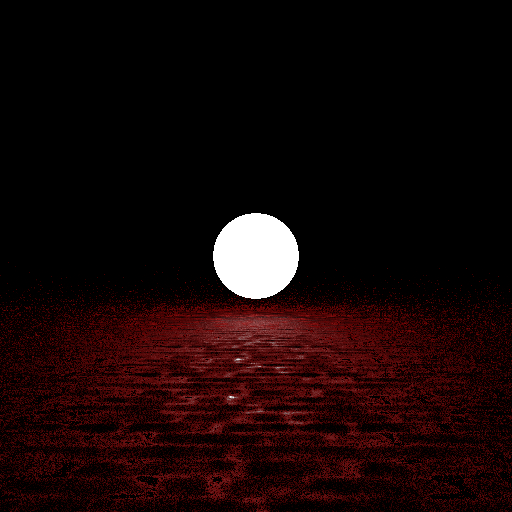
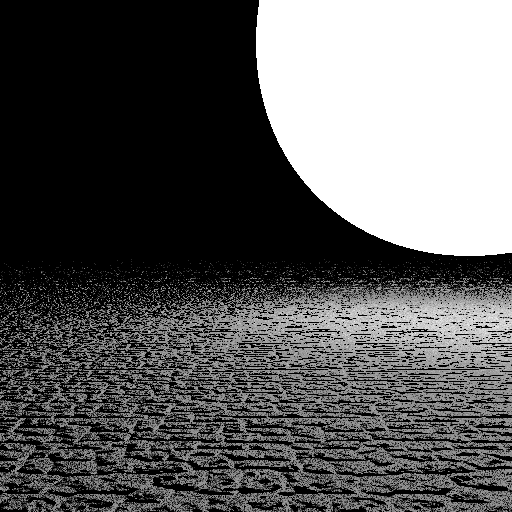
Allow each mesh to have its own default material, allow loading objs whose mtl is missing, and add support for normal maps

diff --git a/src/scenes.rs b/src/scenes.rs
@@ -13,14 +13,14 @@ pub fn construct_reflect_scene() -> ObjectVec {
     let mut objs: ObjectVec = Vec::new();
 
     objs.push(Box::new(Sphere::new(
-        Vec3 { x: 0.0, y: 0.0, z: -12.0 },
-        1.0,
+        Vec3 { x: 5.0, y: 5.0, z: -12.0 },
+        5.0,
         Material {
             texture_albedo: None,//Some(Texture::Solid(Color::gray(1.0))),
             texture_specular: None,//Some(Texture::Solid(Color::gray(1.0))),
             texture_normal: None,
             texture_emission_color: None,
-            texture_emission_intensity: Some(Texture::Solid(Color::gray(1.0)))
+            texture_emission_intensity: Some(Texture::Solid(Color::gray(10.0)))
         }
     )));
 
@@ -29,9 +29,9 @@ pub fn construct_reflect_scene() -> ObjectVec {
         Vec3 { x: 0.0, y: 1.0, z: 0.0 },
         Vec3 { x: 0.0, y: 0.0, z: -1.0 },
         Material {
-            texture_albedo: Some(Texture::Solid(Color(1.0,0.0,0.0))),
-            texture_specular: Some(Texture::from_image("/Users/brundolf/git/raytracer/specular.jpeg")),
-            texture_normal: None,
+            texture_albedo: Some(Texture::Solid(Color::gray(1.0))),
+            texture_specular: None,
+            texture_normal: Some(Texture::from_image("/Users/brundolf/git/raytracer/cobblestone_normal.jpg")),
             texture_emission_color: None,
             texture_emission_intensity: None,
         }
@@ -90,8 +90,9 @@ pub fn construct_tree_scene() -> ObjectVec {
 
     objs.push(Box::new(Mesh::from_obj(
         "/Users/brundolf/git/raytracer/tree.obj", 
-        &(&Matrix::translation(&Vec3 { x: 0.0, y: 0.0, z: -3.0 }) *
-          &Matrix::rotation_y(std::f32::consts::PI / -4.0))
+        &(Matrix::translation(&Vec3 { x: 0.0, y: 0.0, z: -3.0 })
+        * Matrix::rotation_y(std::f32::consts::PI / -4.0)),
+        None
     )));
 
     objs.push(Box::new(Plane::new(
@@ -140,9 +141,10 @@ pub fn construct_room_scene() -> ObjectVec {
 
     objs.push(Box::new(Mesh::from_obj(
         "/Users/brundolf/git/raytracer/test.obj", 
-        &(&Matrix::translation(&Vec3 { x: 0.0, y: -3.0, z: -10.0 }) *
-        &(&Matrix::rotation_y(std::f32::consts::PI) *
-          &Matrix::scale(&Vec3::from_scalar(0.5))))
+        &(Matrix::translation(&Vec3 { x: 0.0, y: -3.0, z: -10.0 })
+        * Matrix::rotation_y(std::f32::consts::PI)
+        * Matrix::scale(&Vec3::from_scalar(0.5))),
+        None
     )));
     
     // ceiling
@@ -429,10 +431,61 @@ pub fn construct_wallpaper_scene() -> ObjectVec {
     return objs;
 }
 
+
+
+pub fn construct_wallpaper_scene_2() -> ObjectVec {
+    let mut objs: ObjectVec = Vec::new();
+
+    objs.push(Box::new(Mesh::from_obj(
+        "/Users/brundolf/git/raytracer/Geometric.obj", 
+        &(Matrix::translation(&Vec3 { x: -0.5, y: 0.0, z: -8.0 })
+        * Matrix::rotation_x(std::f32::consts::PI * -1.0 / 8.0)
+        * Matrix::rotation_y(std::f32::consts::PI * -1.0 / 8.0)
+        /*
+          Matrix::rotation_y(std::f32::consts::PI * 5.0 / 4.0) *
+          Matrix::rotation_x(std::f32::consts::PI * 1.0 / 4.0)*/),
+        Some(Material {
+            texture_albedo: None,
+            texture_specular: Some(Texture::Solid(Color::gray(0.8))),
+            texture_normal: None,
+            texture_emission_color: None,
+            texture_emission_intensity: None,
+        })
+    )));
+
+    for a in 0..8 {
+        for b in 0..4 {
+            let a_portion = a as f32 / 8.0;
+            let b_portion = b as f32 / 4.0;
+
+            let longitude = (2.0 * std::f32::consts::PI) * a_portion + (std::f32::consts::PI / 8.0);
+            let latitude = std::f32::consts::PI * b_portion - std::f32::consts::PI / 2.0;
+
+            println!("{}, {}", longitude, latitude);
+
+            let pos = &Vec3::from_angles(longitude, latitude) * 3.0;
+
+            objs.push(Box::new(Sphere::new(
+                &Vec3 { x: 0.0, y: 0.0, z: -8.0 } + &pos,
+                0.5,
+                Material {
+                    texture_albedo: None,
+                    texture_specular: None,
+                    texture_normal: None,
+                    texture_emission_color: Some(Texture::Solid(Color(1.0, 0.0, 0.0))),
+                    texture_emission_intensity: Some(Texture::Solid(Color::gray(5.0)))
+                }
+            )));
+        }
+    }
+
+    return objs;
+}
+
 const COUNT_X: usize = 8;
 const COUNT_Z: usize = 4;
 const SPACING: f32 = 2.0;
-const ORIGIN: Vec3 = Vec3 { 
+const ORIGIN: Vec3 = Vec3 {
     x: -1.0 * ((COUNT_X - 1) as f32 * SPACING / 2.0),
     z: -12.0,
     y: -4.0

diff --git a/src/plane.rs b/src/plane.rs
@@ -8,6 +8,7 @@ use crate::intersection::Intersection;
 use crate::material::Material;
 use crate::utils::{plane_intersection,ObjectVec,PI_OVER_TWO};
 use crate::illumination::Illumination;
+use crate::matrix::Matrix;
 
 pub struct Plane {
     pub position: Vec3,
@@ -36,10 +37,28 @@ impl Plane {
     }
 }
 
+const FORWARD: Vec3 = Vec3 { x: 0.0, y: 0.0, z: -1.0 };
+
 impl Object for Plane {
 
     fn intersection(&self, ray: &Ray) -> Option<Intersection> {
         plane_intersection(&self.position, &self.normal, ray)
+            .map(|mut intersection| {
+
+                self.material.texture_normal.as_ref().map(|texture_normal| {
+                    let normal_color = texture_normal.color_at(self.texture_coordinate(&intersection.position));
+                    let normal_vec = Vec3 {
+                        x: -1.0 * (normal_color.0 * 2.0 - 1.0),
+                        y: normal_color.1 * 2.0 - 1.0,
+                        z: (normal_color.2 * 2.0 - 1.0) * -1.0,
+                    };
+                    let transformation = Matrix::from_to_rotation(&FORWARD, &normal_vec);
+
+                    intersection.normal = intersection.normal.transformed(&transformation);
+                });
+                
+                intersection
+            })
     }
 
     fn texture_coordinate(&self, point: &Vec3) -> (f32,f32) {

diff --git a/src/mesh.rs b/src/mesh.rs
@@ -35,6 +35,7 @@ pub struct Face {
 
 pub struct Mesh {
     materials: Vec<Material>,
+    default_material: Material,
 
     vertices: Vec<Vec3>,
     faces: Vec<Face>,
@@ -45,7 +46,7 @@ pub struct Mesh {
 
 impl Mesh {
 
-    pub fn from_obj(path: &str, transform: &Matrix) -> Self {
+    pub fn from_obj(path: &str, transform: &Matrix, default_material: Option<Material>) -> Self {
         let data = fs::read_to_string(path).expect("Failed to open mesh file");
 
         println!("Loading obj...");
@@ -94,6 +95,7 @@ impl Mesh {
         
         return Self {
             materials,
+            default_material: default_material.unwrap_or(DEFAULT_MATERIAL),
             vertices,
             faces,
             uv_coords,
@@ -197,7 +199,7 @@ impl Object for Mesh {
         let mut intersection = self.inner_intersection(ray).unwrap();
 
         let face = &self.faces[intersection.1];
-        let material = face.mat.map(|i| self.materials.get(i).unwrap_or(&DEFAULT_MATERIAL)).unwrap_or(&DEFAULT_MATERIAL);
+        let material = face.mat.map(|i| self.materials.get(i).unwrap_or(&self.default_material)).unwrap_or(&self.default_material);
 
         let uv = self.texture_coordinate(&intersection.0.position);
 

diff --git a/src/material.rs b/src/material.rs
@@ -95,13 +95,14 @@ impl Material {
                     match diffuse_illumination {
                         Some(diffuse) => {
                             match specular_illumination {
-                                Some(specular) => Illumination::combined(&diffuse, &specular.0, specular.1),
+                                Some((illumination, specularity)) => 
+                                    Illumination::combined(&diffuse, &illumination, specularity),
                                 None => diffuse
                             }
                         },
                         None => {
                             match specular_illumination {
-                                Some(specular) => specular.0,
+                                Some((illumination, _specularity)) => illumination,
                                 None => BACKGROUND_ILLUMINATION
                             }
                         }

diff --git a/src/matrix.rs b/src/matrix.rs
@@ -66,6 +66,21 @@ impl Matrix {
         ])
     }
 
+    pub fn from_to_rotation(from: &Vec3, to: &Vec3) -> Self {
+        let mut xaxis = from.cross(to);
+        xaxis.normalize();
+
+        let mut yaxis = to.cross(&xaxis);
+        yaxis.normalize();
+
+        Self([
+            xaxis.x,     xaxis.y,     xaxis.z,     0.0,
+            yaxis.x,     yaxis.y,     yaxis.z,     0.0,
+            to.x,        to.y,        to.z,        0.0,
+            0.0,         0.0,         0.0,         1.0
+        ])
+    }
+
     // core ops
     fn index_for(&self, row: usize, col: usize) -> usize {
         row * SIZE + col
@@ -159,6 +174,14 @@ impl std::ops::Mul for &Matrix {
         return result;
     }
 }
+impl std::ops::Mul for Matrix {
+    type Output = Matrix;
+
+    fn mul(self, other: Self) -> Self::Output {
+        &self * &other
+    }
+}
+
 impl std::ops::Mul<f32> for &Matrix {
     type Output = Matrix;
     

diff --git a/src/mtl_parser.rs b/src/mtl_parser.rs
@@ -9,11 +9,17 @@ use crate::color::Color;
 use crate::texture::Texture;
 
 pub fn load_and_parse(path: &str) -> HashMap<String,Material> {
-    let data = fs::read_to_string(path).expect("Failed to open materials file");
+    let data = fs::read_to_string(path);
 
     println!("Loading mtl...");
 
-    let mats = parse(&data);
+    let mats = match data {
+        Ok(contents) => parse(&contents),
+        Err(_) => {
+            println!("WARNING: Failed to open materials file \"{}\"", path);
+            HashMap::new()
+        }
+    };
     
     println!("done");
     

diff --git a/src/bin/main.rs b/src/bin/main.rs
@@ -21,6 +21,7 @@ use raytracer::scenes::{
     construct_plane_texture_test,
     construct_sphere_texture_test,
     construct_wallpaper_scene,
+    construct_wallpaper_scene_2,
     construct_tree_scene};
 use raytracer::cast::cast_ray;
 use raytracer::utils::{ObjectVec};
@@ -39,7 +40,7 @@ fn ray_trace<'a>() -> Frame {
     let start_time = Instant::now();
     
     // Create list of objects
-    let objs = construct_room_scene();
+    let objs = construct_reflect_scene();
 
     // Create frame
     let mut frame = Frame::new(RESOLUTION,RESOLUTION);

diff --git a/benches/cast.rs b/benches/cast.rs
@@ -93,9 +93,10 @@ fn construct_room_scene() -> ObjectVec {
     // mesh
     objs.push(Box::new(Mesh::from_obj(
         "/Users/brundolf/git/raytracer/test.obj", 
-        &(&Matrix::translation(&Vec3 { x: 0.0, y: -3.0, z: -10.0 }) *
-        &(&Matrix::rotation_y(std::f32::consts::PI) *
-          &Matrix::scale(&Vec3::from_scalar(0.5))))
+        &(Matrix::translation(&Vec3 { x: 0.0, y: -3.0, z: -10.0 })
+        * Matrix::rotation_y(std::f32::consts::PI)
+        * Matrix::scale(&Vec3::from_scalar(0.5))),
+        None
     )));
 
     // ceiling

diff --git a/src/vec3.rs b/src/vec3.rs
@@ -25,7 +25,7 @@ impl Vec3 {
     pub fn from_angles(alpha: f32, beta: f32) -> Self {
         Self {
             x: alpha.cos() * beta.cos(),
-            y: beta.sin(),
+            y: beta.signum() * beta.sin(),
             z: alpha.sin() * beta.cos(),
         }
     }
